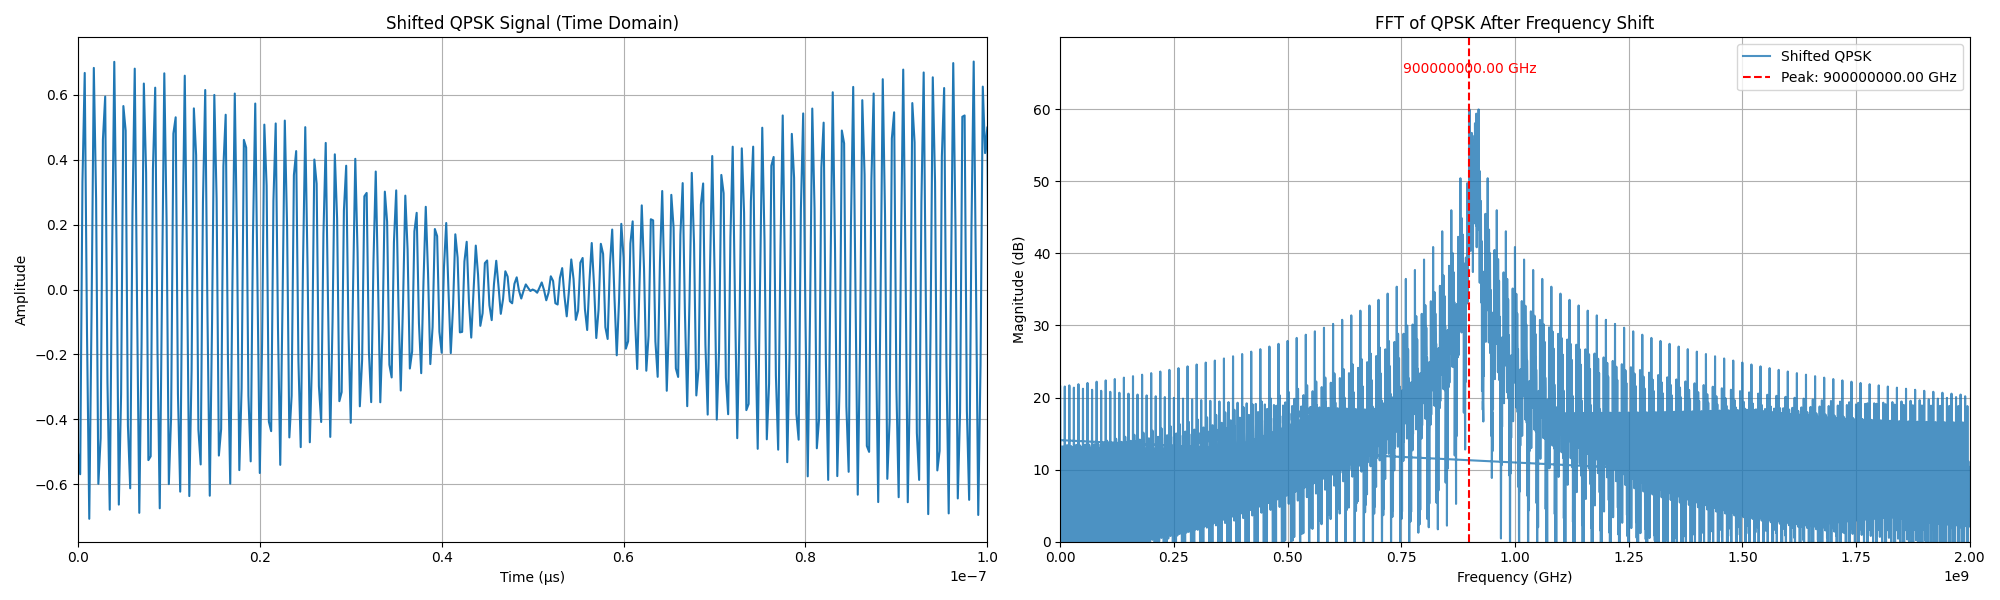
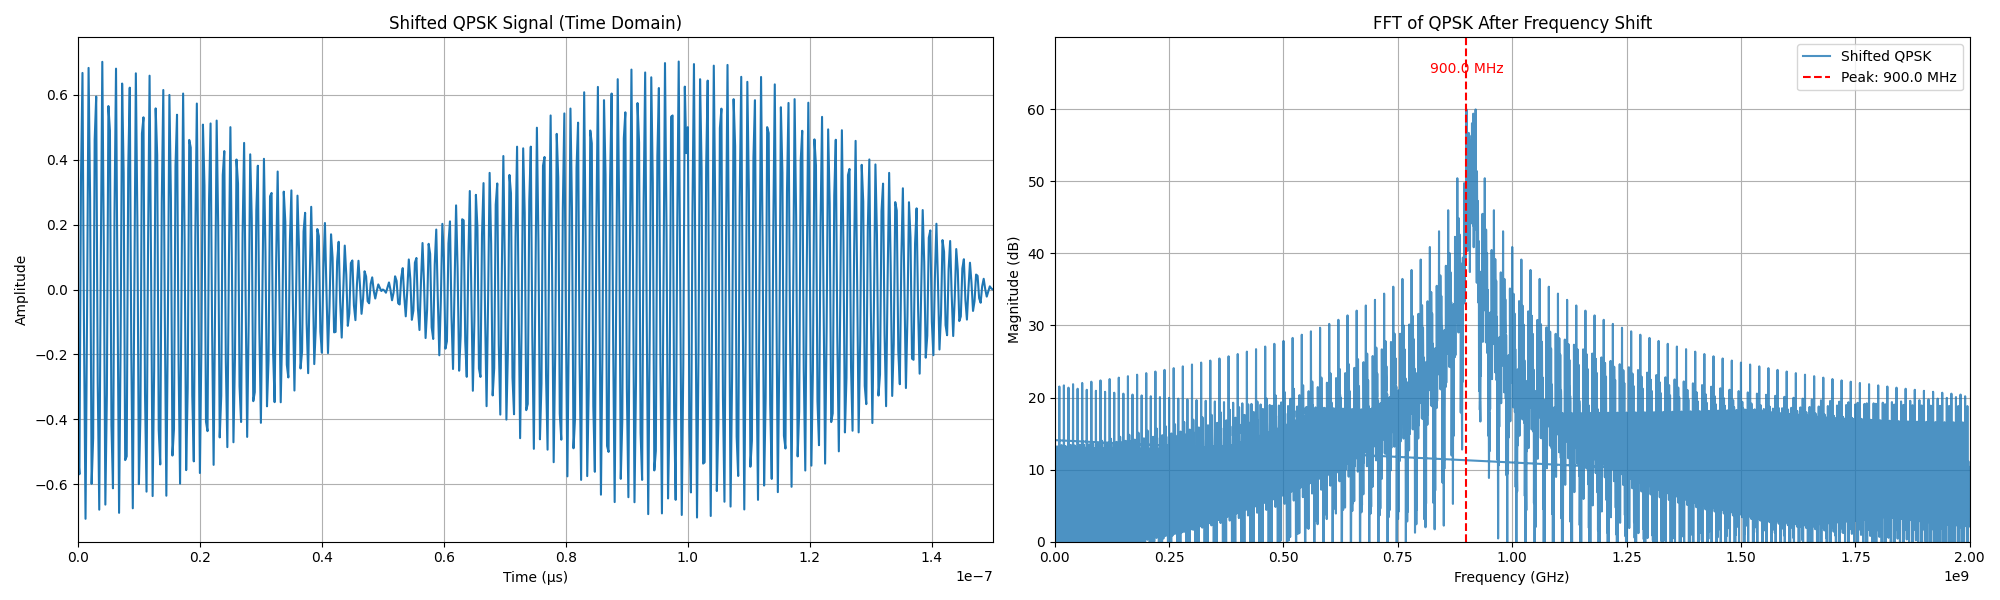
hoping this filter is now functioning

diff --git a/Phys_Sim/Repeater.py b/Phys_Sim/Repeater.py
@@ -35,7 +35,7 @@ class Repeater:
 
         return qpsk_shifted
 
-    def filter(self, mixed_qpsk, order=10):
+    def filter(self, mixed_qpsk, order=20):
         """
         Filters the mixed signal to remove unwanted frequencies.
 
@@ -44,13 +44,15 @@ class Repeater:
         """
         # Implement filtering logic here
         from scipy import signal
-        freq_low = self.desired_frequency - 10e6
-        freq_high = self.desired_frequency +10e6
-        # frequencies normalized to the sample rate
-        low = freq_low/self.sampling_frequency
-        high = freq_high/self.sampling_frequency 
-        #get the normalized cuttoff frequeni
-        taps = signal.firwin(order+1,[low, high], pass_zero=False)
+        freq_low = self.desired_frequency - 50e6
+        freq_high = self.desired_frequency +50e6
+
+        #we need to normalize these frequencies by sampling rate/2
+        nyquist = self.sampling_frequency/2
+        low = freq_low/nyquist
+        high =freq_high/nyquist
+        #debug print(low, high)
+        taps = signal.firwin(order+1,[low, high])
 
         # Apply filter
         filtered_sig = signal.lfilter(taps, 1.0, mixed_qpsk)  # filtered signal
@@ -292,11 +294,8 @@ class Repeater:
 
     def handler(self, t, qpsk_waveform, f_carrier):
         
-        qpsk_mixed = self.mix(qpsk_waveform, f_carrier, t)
-        
-        cutoff_freq = self.desired_frequency + 30e6
-        
-        qpsk_filtered = self.filter(cutoff_freq, qpsk_mixed)
+        qpsk_mixed = self.mix(qpsk_waveform, f_carrier, t)        
+        qpsk_filtered = self.filter(qpsk_mixed)
         
         self.plot_to_png(t, qpsk_waveform, qpsk_mixed, qpsk_filtered, self.sampling_frequency)
 
